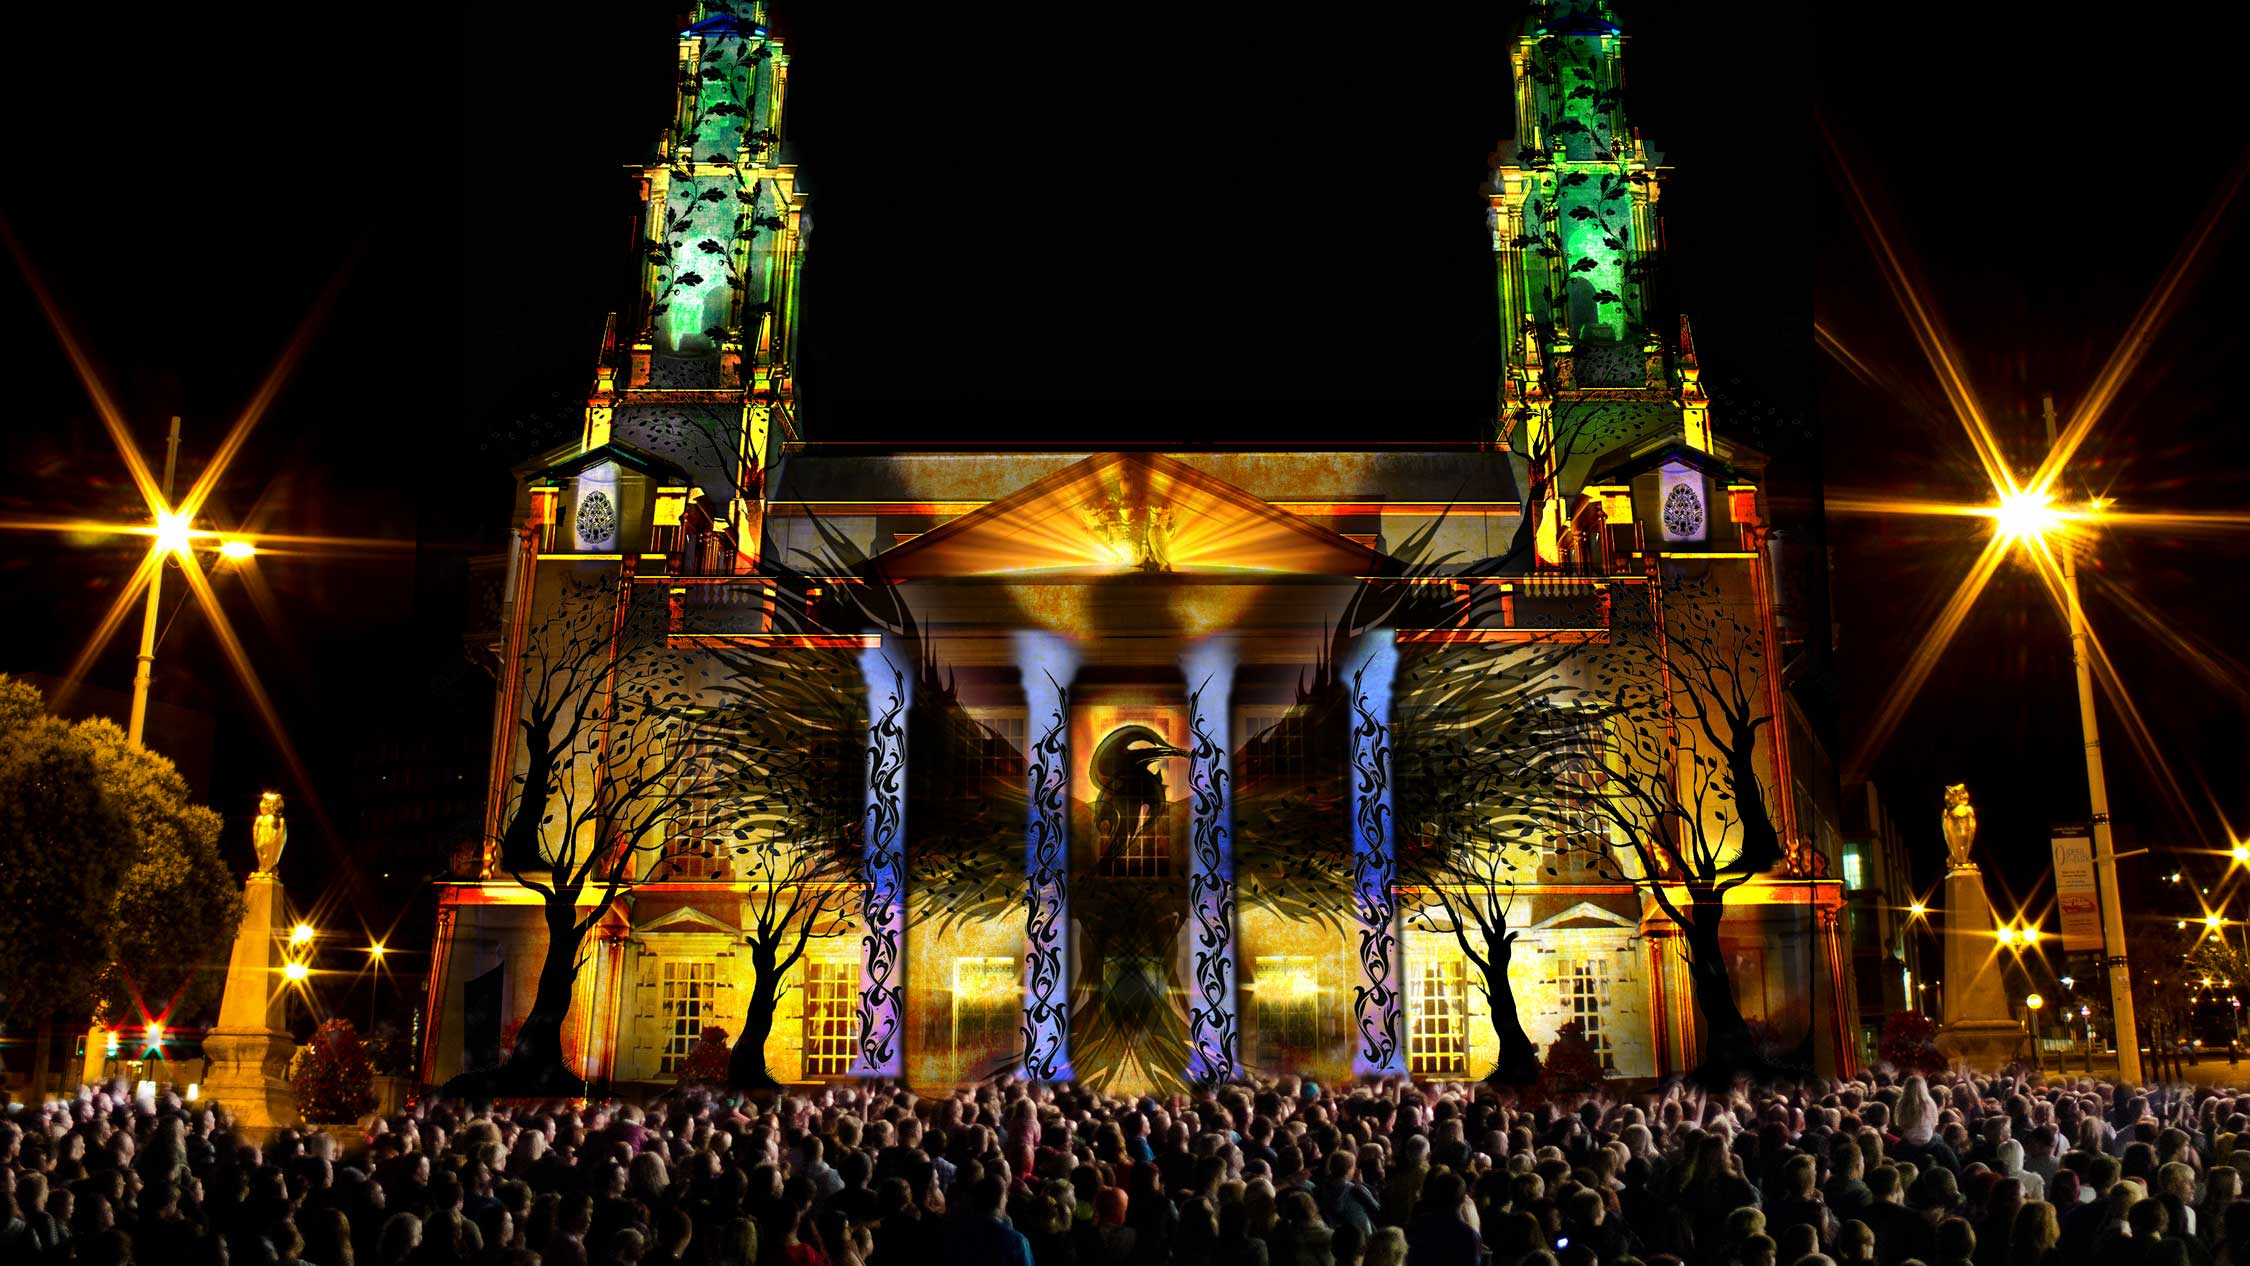
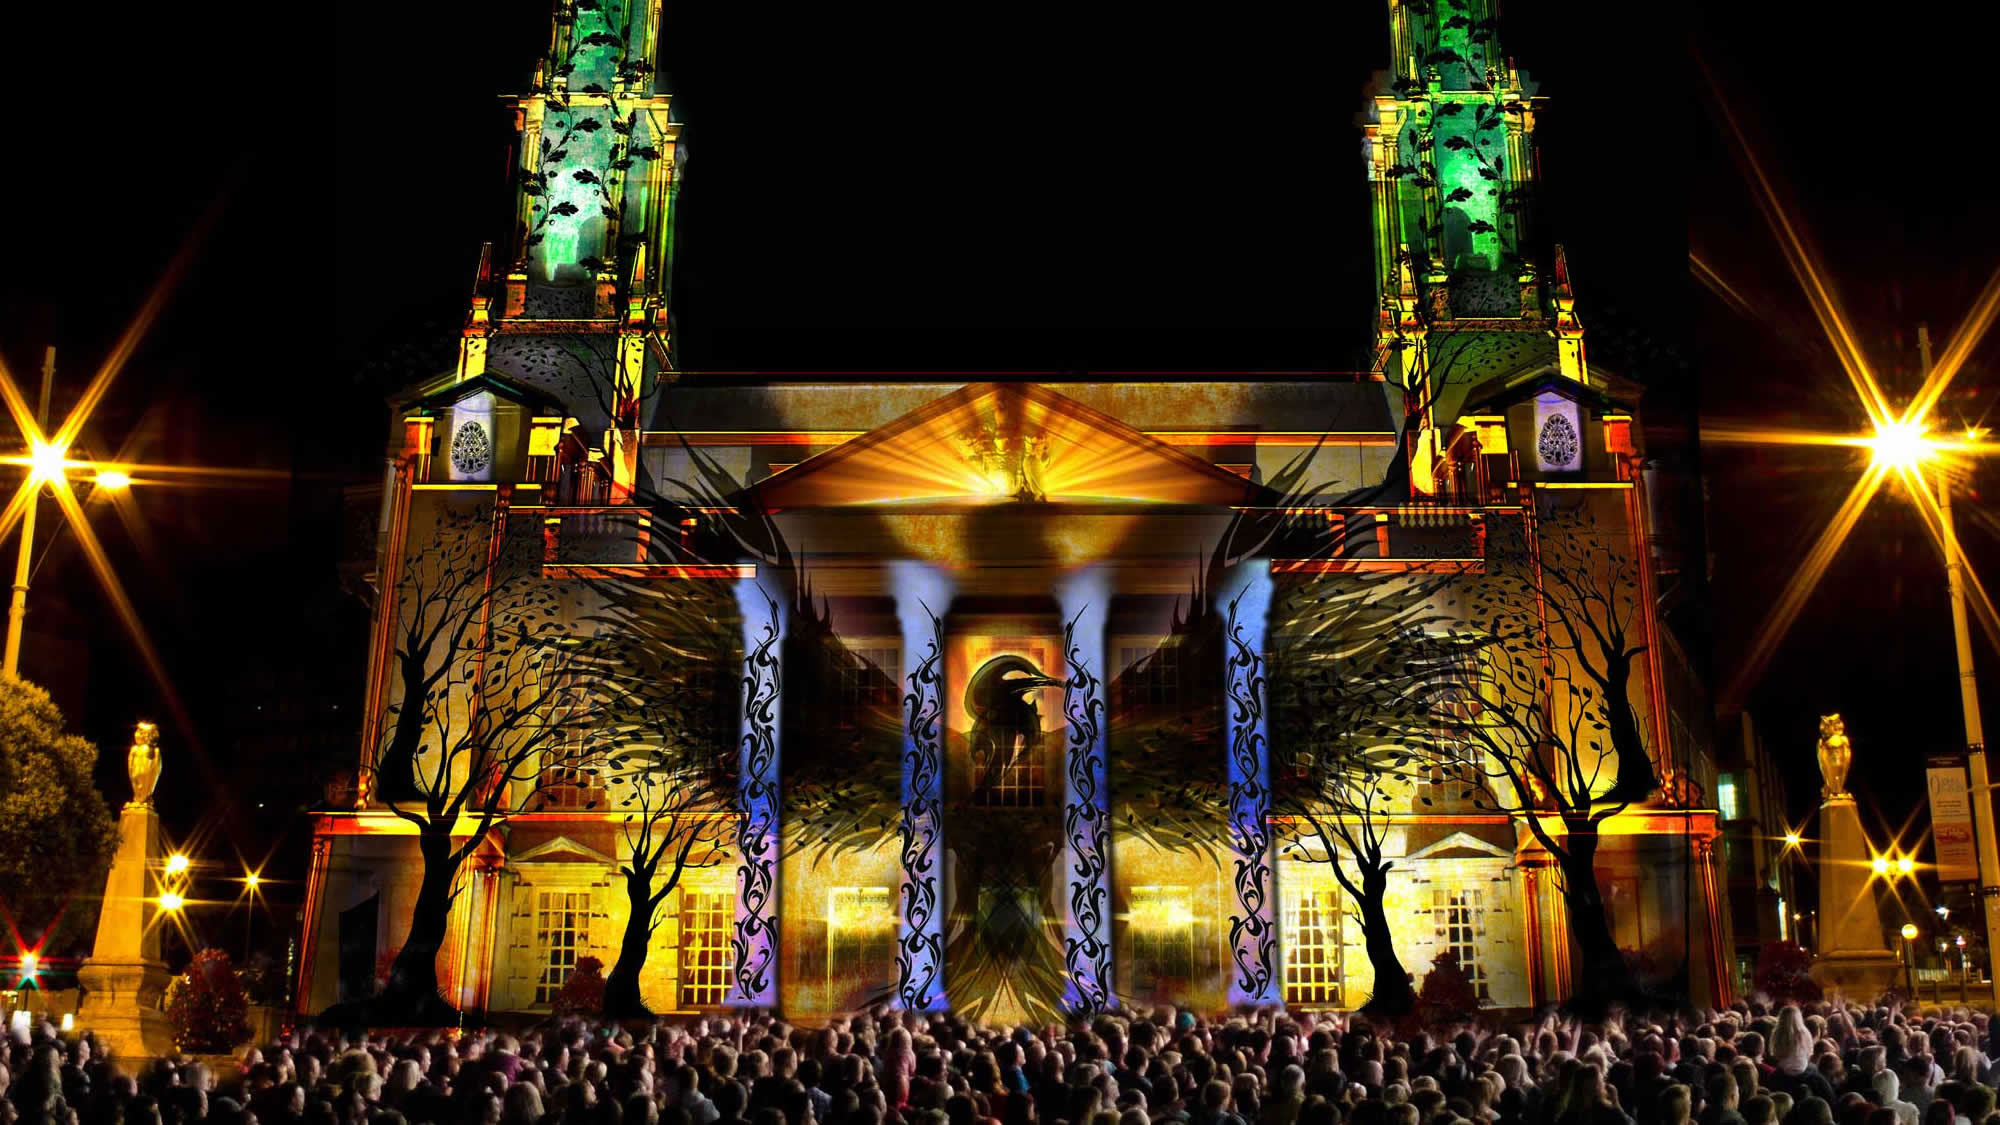
updated hero images and video style guide text

diff --git a/app/views/design-patterns-pages/design-elements/icons-and-images.html b/app/views/design-patterns-pages/design-elements/icons-and-images.html
@@ -207,11 +207,11 @@
 <div class="text">
     <div role="note" aria-label="Information" class="text-highlight">
     <h4 class="heading-small top">For SharePoint:</h4> 
+        <p>To add a youtube video to a page, you need to:</p>
         <ol class="list list-number">
-            <li>save the code in a .txt file</li>
-            <li>upload the file to SharePoint</li>
-            <li>add to the page a content editor webpart</li>
-            <li>edit the webpart and add the file URL to content link</li>
+            <li>add a 'script editor' webpart to the page</li>
+            <li>'edit snippet' and insert the code</li>
+            <li>save page and test!</li>
         </ol>
     </div>
 </div>

diff --git a/app/assets/sass/application.scss b/app/assets/sass/application.scss
@@ -514,12 +514,19 @@ aside.col-md-4{
     @extend .font-xsmall;
     color:$base-link-color;
 }
-
-.hidden{
-    display:none;
+.sr-only{
+    position: absolute;
+    width: 1px;
+    height: 1px;
+    padding: 0;
+    margin: -1px;
+    overflow: hidden;
+    clip: rect(0,0,0,0);
+    border: 0;
 }
 
 .form-group-off,
 .form-control-off{
-    @extend .hidden;
+    @extend .sr-only;
 }
+

diff --git a/public/stylesheets/application.css b/public/stylesheets/application.css
@@ -23724,6 +23724,13 @@ aside.col-md-4 {
 .link-small {
   color: #007299; }
 
-.hidden, .form-group-off,
+.sr-only, .form-group-off,
 .form-control-off {
-  display: none; }
+  position: absolute;
+  width: 1px;
+  height: 1px;
+  padding: 0;
+  margin: -1px;
+  overflow: hidden;
+  clip: rect(0, 0, 0, 0);
+  border: 0; }
